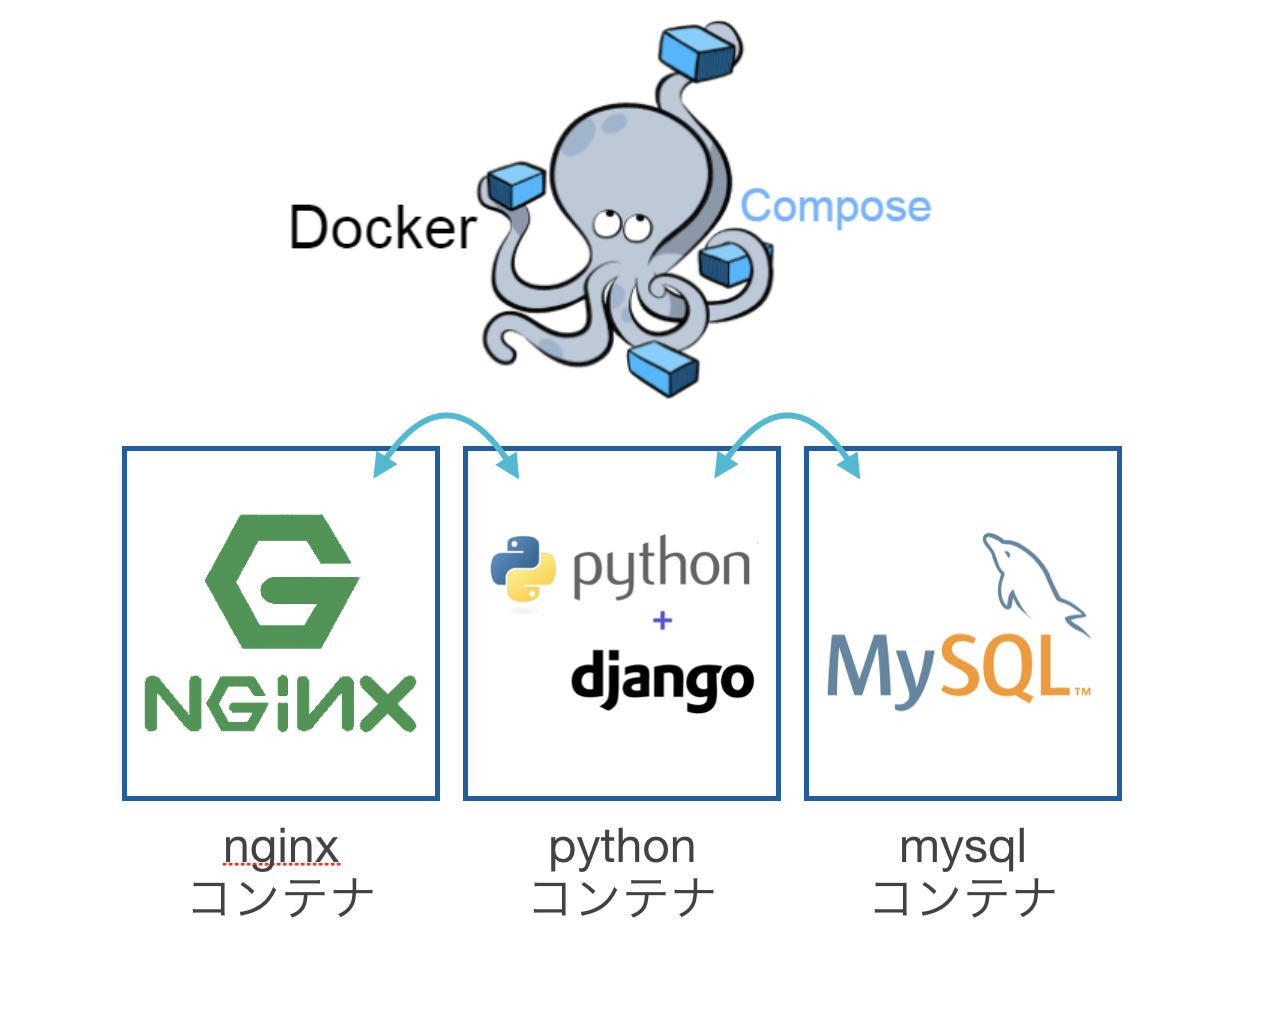
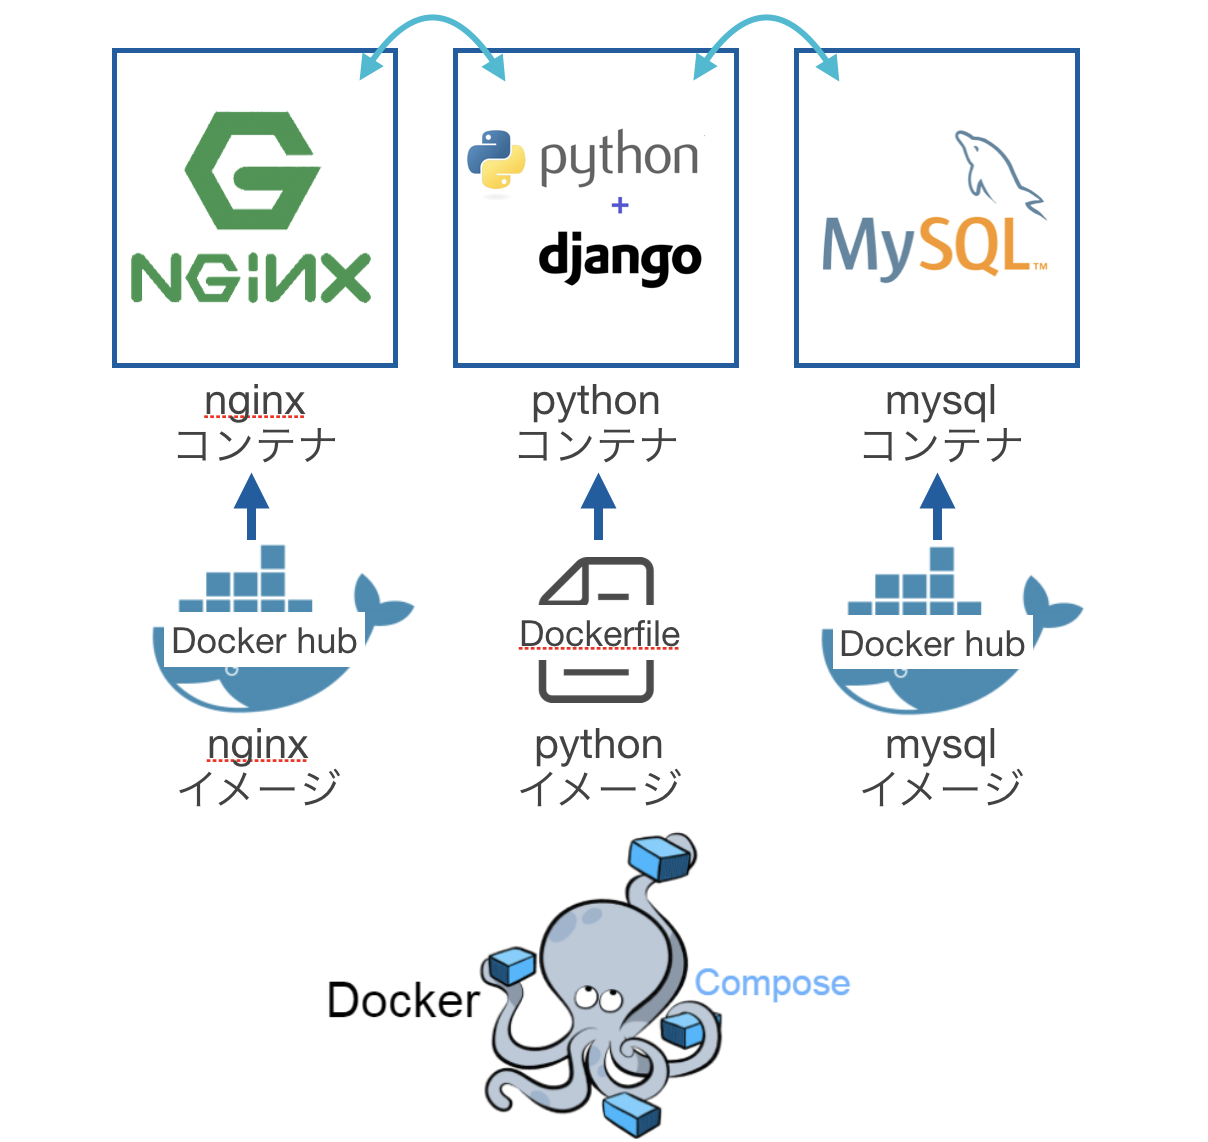
migrateでのエラーを修正

Changed region(s): [[0.0919, 0.0, 0.9189, 1.0], [0.8882, 0.0621, 0.9189, 0.3107]]

diff --git a/djangoPJ/djangoPJ/settings/product.py b/djangoPJ/djangoPJ/settings/product.py
@@ -12,7 +12,7 @@ ALLOWED_HOSTS = ["*"]
 DATABASES = {
     'default': {
         'ENGINE': 'django.db.backends.mysql',
-        'NAME': os.path.join(BASE_DIR, 'djangoPJ'),
+        'NAME': 'djangoPJ',
         'USER': 'djangoPJ',
         'PASSWORD': 'djangoPJ',
         'HOST': 'mysql',

diff --git a/djangoPJ/djangoPJ/settings/dev.py b/djangoPJ/djangoPJ/settings/dev.py
@@ -11,7 +11,7 @@ ALLOWED_HOSTS = []
 DATABASES = {
     'default': {
         'ENGINE': 'django.db.backends.mysql',
-        'NAME': os.path.join(BASE_DIR, 'djangoPJ'),
+        'NAME': 'djangoPJ',
         'USER': 'djangoPJ',
         'PASSWORD': 'djangoPJ',
         'HOST': 'mysql',

diff --git a/README.md b/README.md
@@ -19,8 +19,16 @@
 
 ### 構成
 
+- nginxコンテナ, pythonコンテナ, mysqlコンテナをDocker composeで連携させている 
+
 ![コンテナ構成](コンテナ構成.png)
 
+- 開発環境構築と本番環境構築を分けて諸々設定ファイルを記述している
+
+![開発と本番](開発と本番.png)
+
+
+- ※ 本番環境(AWS上)のイメージ
 
 ----
 
@@ -67,6 +75,37 @@
 	
 	- アクセス (ec2のIP)
 
+---
+### Django開発の注意事項
+
+- migrationの仕方
+
+	- コンテナ内の環境でmigrateを実行するようにする
+		- pythonコンテナに入る or 外からコンテナに対してコマンドを投げる 
+   
+	- 開発と本番のどちらのsettingファイルを使用するか明示する
+
+```
+	# コンテナに入るパターン
+	
+	# pythonコンテナに入る
+	$ docker exec -i -t {pythonコンテナ名} bash
+	# 開発環境
+	$ python djangoPJ/manage.py migrate --settings=djangoPJ.settings.dev
+	# 本番環境
+	$ python djangoPJ/manage.py migrate --settings=djangoPJ.settings.product
+```
+
+```
+	# 外からコンテナ内にコマンドを投げるパターン
+	
+	$ cd docker_infra
+	# 開発環境
+	$ docker-compose -f docker-compose.yml -f docker-compose.dev.yml run python python djangoPJ/manage.py migrate --settings=djangoPJ.settings.dev
+	# 本番環境
+	$ docker-compose -f docker-compose.yml -f docker-compose.product.yml run python python djangoPJ/manage.py migrate --settings=djangoPJ.settings.product
+
+``` 
 
 ---
 
@@ -88,6 +127,7 @@
 	- [Docker Composeでコンテナに入る方法](https://qiita.com/setouchi/items/ebfeefb7d5b129002177) 
 	- [Docker Composeでビルドしたイメージ名について](https://amaya382.hatenablog.jp/entry/2017/04/03/034002)
 	- [開発環境と本番環境でdocker-composeを分ける方法](https://qiita.com/urouro_n/items/6a026eb635cc7d0e034f)
+	- [Docker composeのネットワークについて](https://qiita.com/roba4coding/items/efd3a38db08eb476d412)
 	
 - WSGI
 	- [WSGIとDjangoの関係](http://d.hatena.ne.jp/hirokiky/20121001/1349098637) 
@@ -96,3 +136,9 @@
 - Django
 	- [EC2でDjangoを動かす](https://qiita.com/kur/items/fb75354ee53671c79614) 
 	- [開発環境と本番環境でsettingを分ける方法](https://qiita.com/okoppe8/items/e60d35f55188c0ab9ecc)
+
+- DB
+	- [dockerでdjangoとmysql連携](https://qiita.com/cortyuming/items/e587fc045ee7424466b0) 
+
+- Nginx
+	- [Djangoで静的ファイルを扱う](http://djandjan.hateblo.jp/entry/2018/03/08/225014) 
